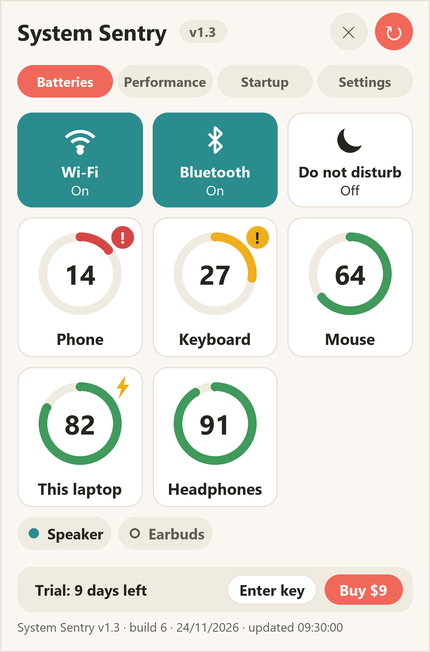
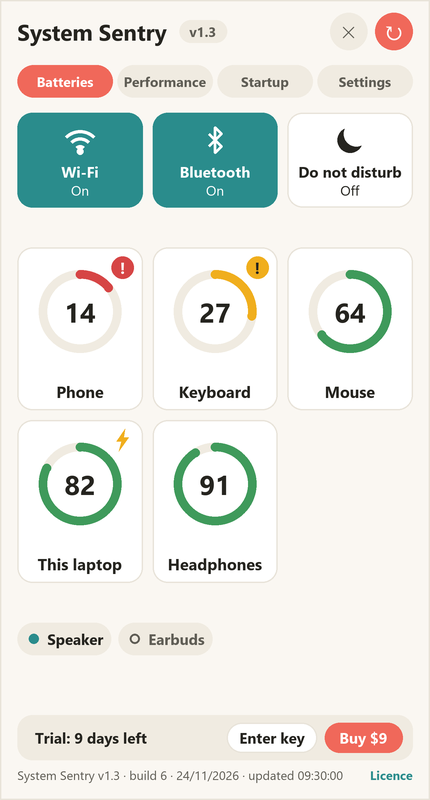
Add files via upload

diff --git a/README.md b/README.md
@@ -23,6 +23,7 @@ Windows may say it "protected your PC", because the app is new and not yet widel
 | One-click clean-up of temporary files and memory | | Yes |
 | Automatic memory trimming and CPU warnings (you choose the levels) | | Yes |
 | Startup apps on/off | | Yes |
+| Application list: tick background apps (Widgets, Phone Link and more) to keep closed | | Yes |
 
 ## Buy the full version: $9, once
 
@@ -37,13 +38,15 @@ Windows may say it "protected your PC", because the app is new and not yet widel
 
 ![Performance](docs/performance.png) ![Settings](docs/settings.png)
 
-![Startup](docs/startup.png) ![After the trial](docs/trial-ended.png)
+![Startup](docs/startup.png) ![Application list](docs/application-list.png)
+
+![Licence](docs/licence.png) ![After the trial](docs/trial-ended.png)
 
 ## Questions
 
 **Does it send my data anywhere?** No analytics, no tracking. The only internet use is checking your licence key with the payment service (Polar).
 
-**Will it close my apps or delete my files?** Never by itself. Automatic actions only free idle memory. Deleting temporary files or ending an app happens only when you press the button and confirm.
+**Will it close my apps or delete my files?** Never by itself. Automatic actions only free idle memory. Deleting temporary files or ending an app happens only when you press its button (ending an app asks you to confirm first). The Recycle Bin is never touched.
 
 **Which Windows?** Windows 11. 64-bit.
 
@@ -54,4 +57,3 @@ Windows may say it "protected your PC", because the app is new and not yet widel
 ## Legal
 
 Read the [terms of use](TERMS.md) and the [third-party notices](THIRD-PARTY-NOTICES.md). The source code is private.
-

diff --git a/TERMS.md b/TERMS.md
@@ -29,8 +29,9 @@ or sell the app as your own. Nothing in these terms stops you doing something th
 or a licence of a part of the app listed in THIRD-PARTY-NOTICES.txt, gives you the right to do.
 
 5. WHAT THE APP DOES TO YOUR PC
-The app only deletes temporary files, empties the Recycle Bin, or closes an application when
-you press the button for it and confirm. Its automatic actions only free up idle memory; they
+The app only deletes temporary files that are not in use, or closes an application, when you
+press the button for it (ending an application asks you to confirm first). It never touches the
+Recycle Bin. Its automatic actions only free up idle memory; they
 close nothing and delete nothing. The app can switch Wi-Fi, Bluetooth and Do not disturb when
 you ask. It changes Windows' own "start with Windows" settings only when you flip a switch.
 
